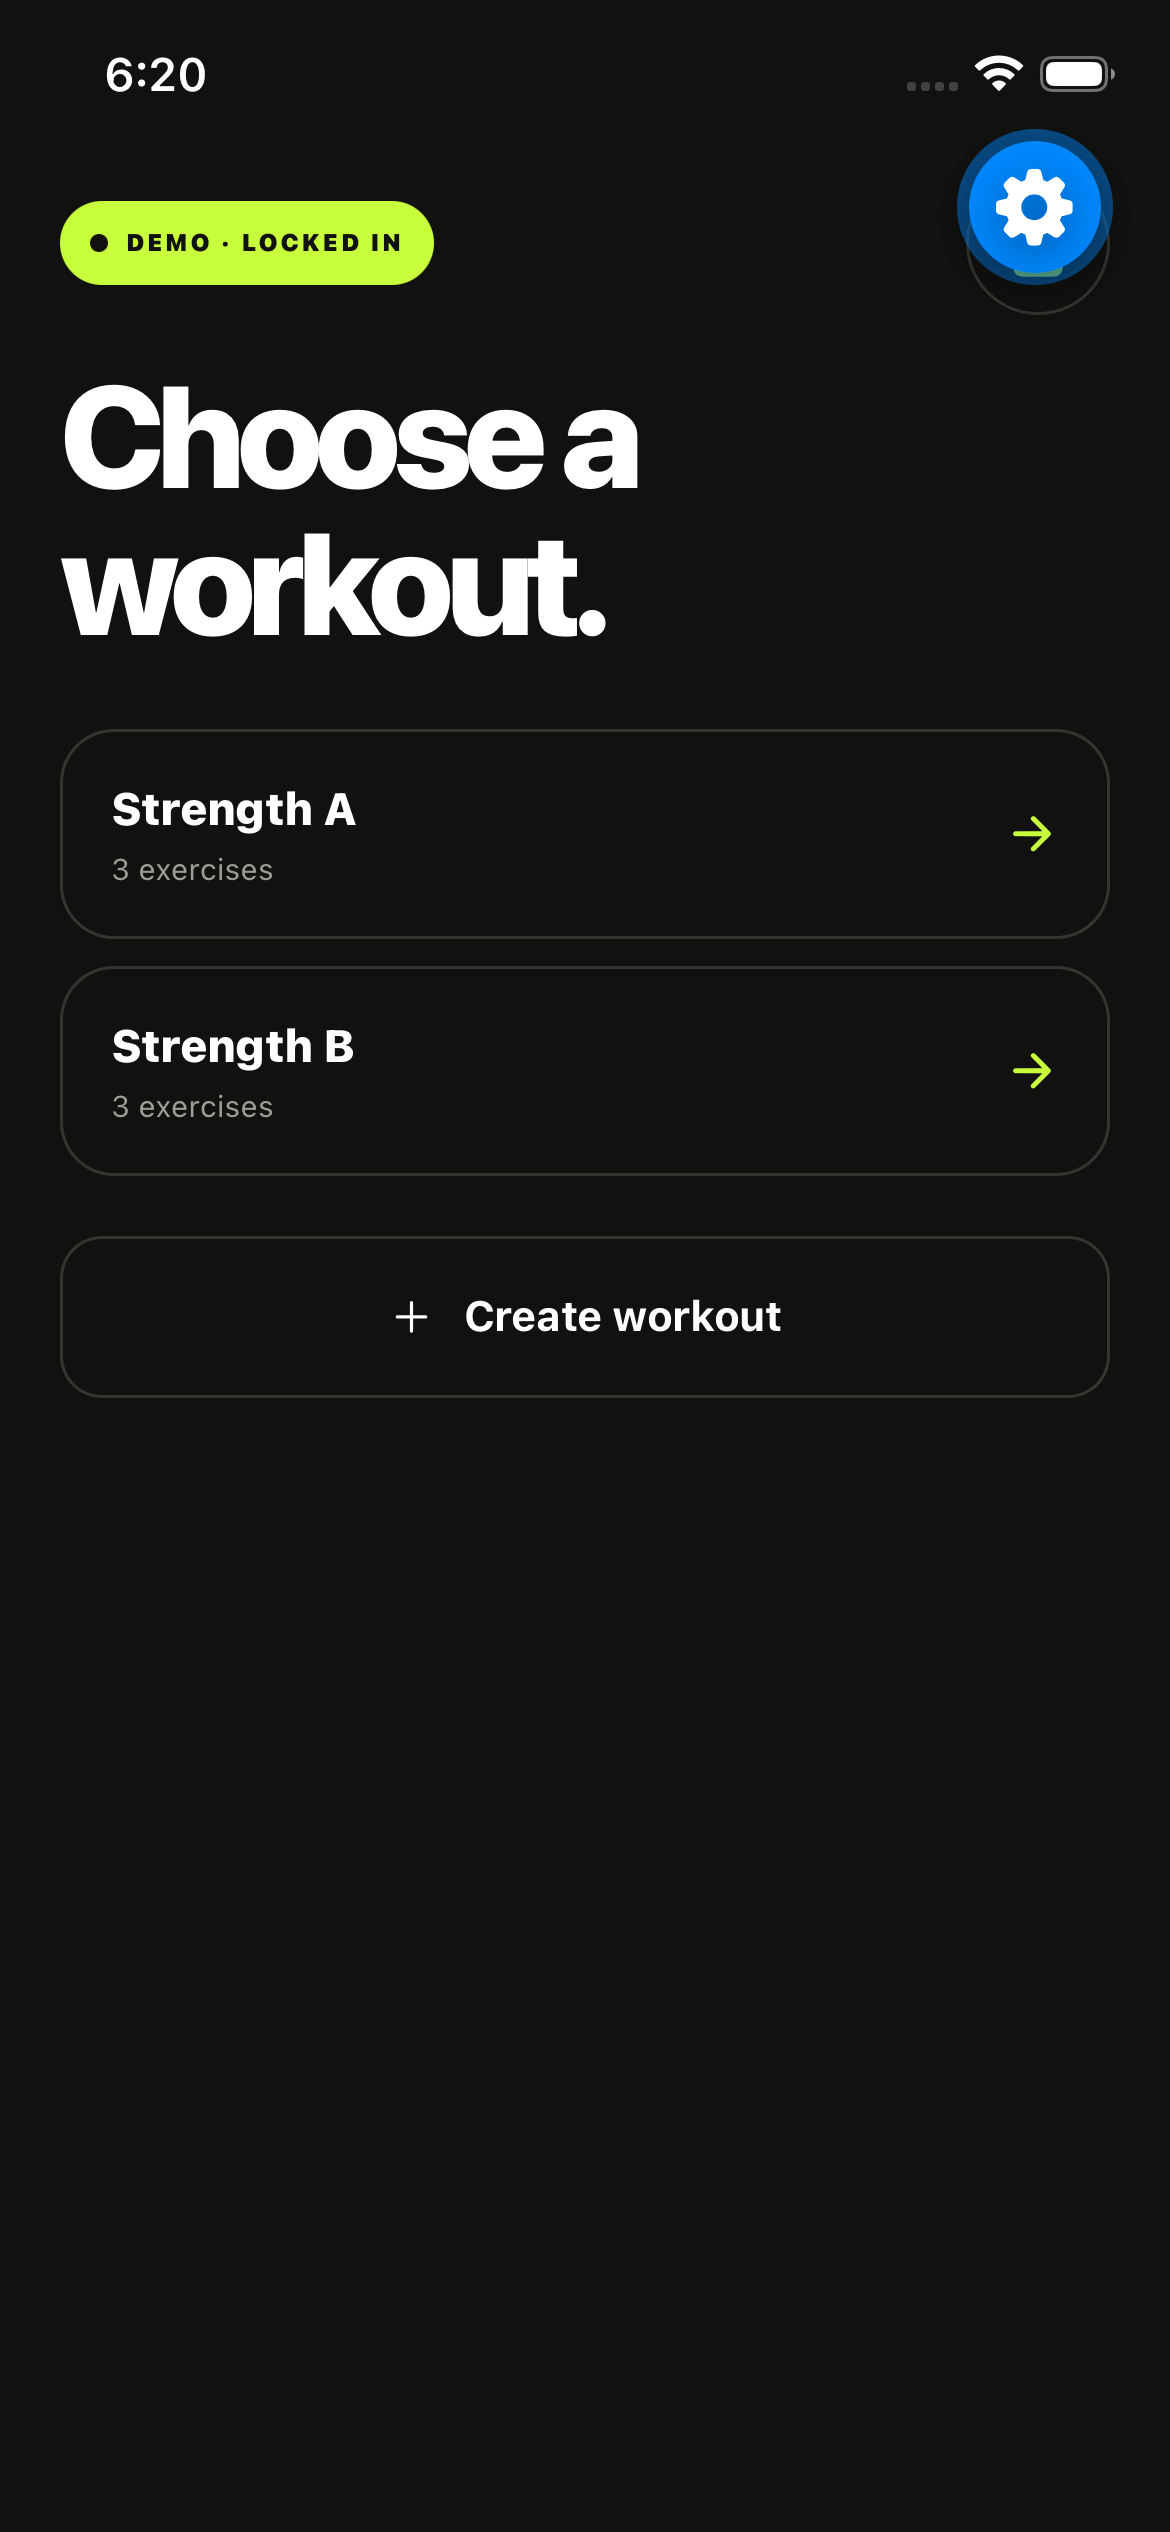
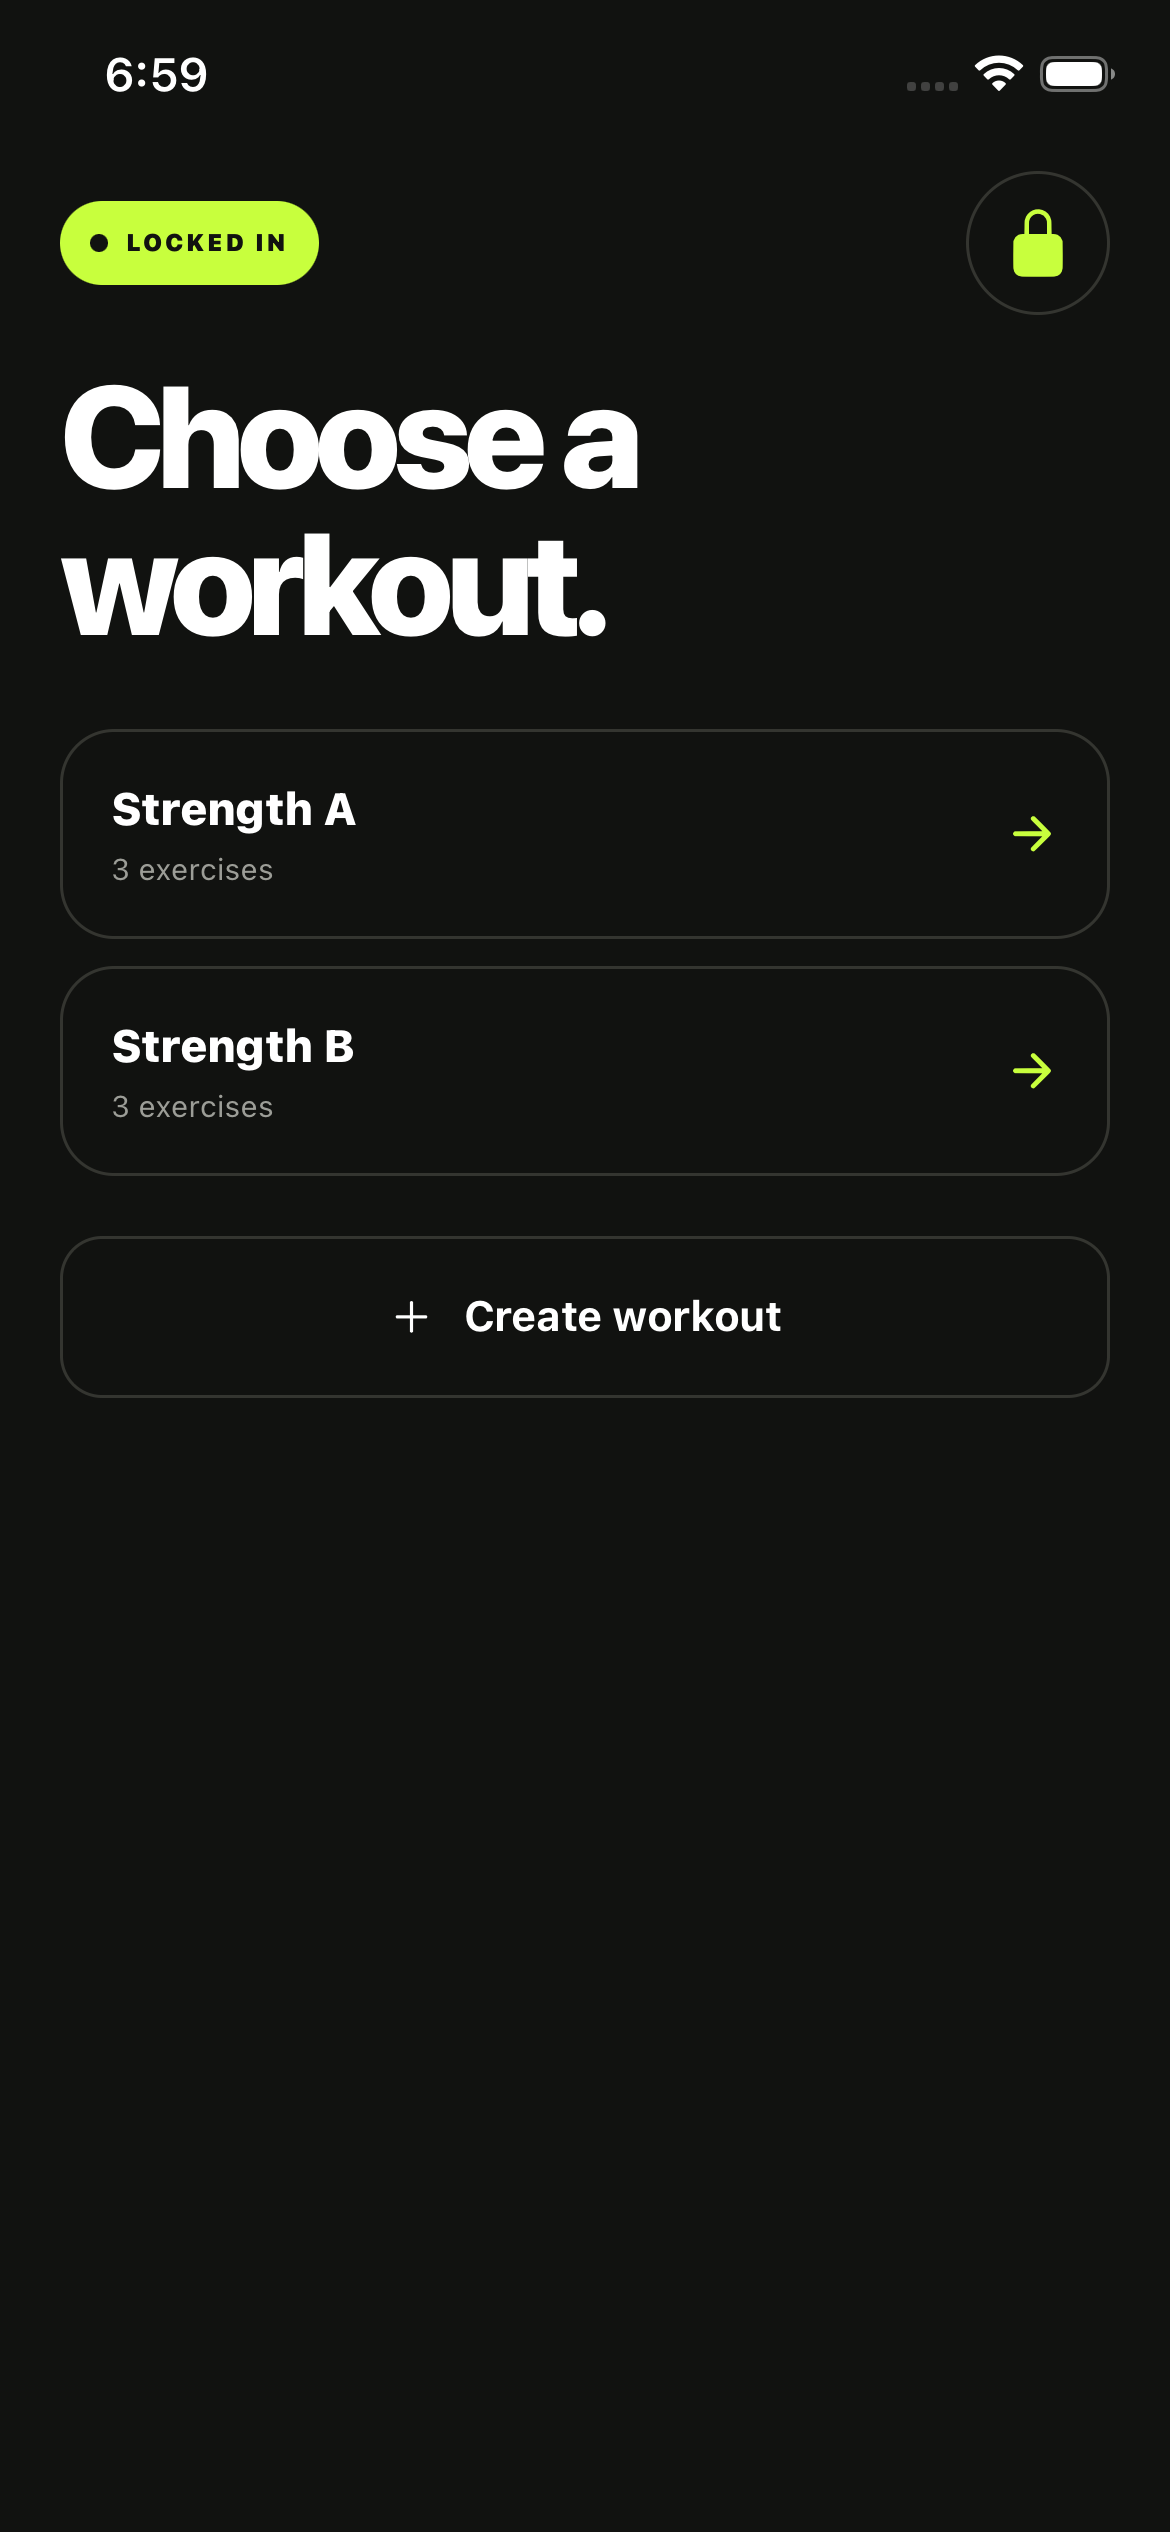
Refresh storefront with production app captures

Changed region(s): [[0.8, 0.0312, 0.9538, 0.1248], [0.1231, 0.0624, 0.3692, 0.1248], [0.1231, 0.0, 0.1538, 0.0312]]

diff --git a/index.html b/index.html
@@ -113,7 +113,7 @@
             <h3>Set up once.</h3>
             <p>Open the app, choose what stays available and save your go-to workout.</p>
             <figure class="app-screen-frame app-screen-frame--light app-screen-frame--setup">
-              <img src="assets/app-step-01-setup.png?v=20260830-8" alt="GymKey focus setup screen for choosing which apps stay available" width="1170" height="2532" loading="lazy">
+              <img src="assets/app-step-01-setup.png?v=20260830-9" alt="GymKey focus setup screen for choosing which apps stay available" width="1170" height="2532" loading="lazy">
             </figure>
           </li>
           <li class="process-step">
@@ -124,7 +124,7 @@
             <h3>Tap in.</h3>
             <p>Touch GymKey to your iPhone before your first set. Your focused session begins.</p>
             <figure class="app-screen-frame app-screen-frame--dark app-screen-frame--tap">
-              <img src="assets/app-step-02-tap.png?v=20260830-8" alt="GymKey active screen for choosing a saved workout after tapping in" width="1170" height="2532" loading="lazy">
+              <img src="assets/app-step-02-tap.png?v=20260830-9" alt="GymKey active screen for choosing a saved workout after tapping in" width="1170" height="2532" loading="lazy">
             </figure>
           </li>
           <li class="process-step">
@@ -135,7 +135,7 @@
             <h3>Train.</h3>
             <p>Move through your workout, log each set and keep your momentum.</p>
             <figure class="app-screen-frame app-screen-frame--dark app-screen-frame--train">
-              <img src="assets/app-step-03-train.png?v=20260830-8" alt="GymKey workout logger showing bench press sets, weight and rest timer" width="1170" height="2532" loading="lazy">
+              <img src="assets/app-step-03-train.png?v=20260830-9" alt="GymKey workout logger showing bench press sets, weight and rest timer" width="1170" height="2532" loading="lazy">
             </figure>
           </li>
           <li class="process-step">
@@ -146,7 +146,7 @@
             <h3>Tap out.</h3>
             <p>Tap the same GymKey when you finish. Your phone returns and the session is saved.</p>
             <figure class="app-screen-frame app-screen-frame--dark app-screen-frame--finish">
-              <img src="assets/app-step-04-finish.png?v=20260830-8" alt="GymKey completed workout screen with session totals and tap-out prompt" width="1170" height="2532" loading="lazy">
+              <img src="assets/app-step-04-finish.png?v=20260830-9" alt="GymKey completed workout screen with session totals and tap-out prompt" width="1170" height="2532" loading="lazy">
             </figure>
           </li>
         </ol>
